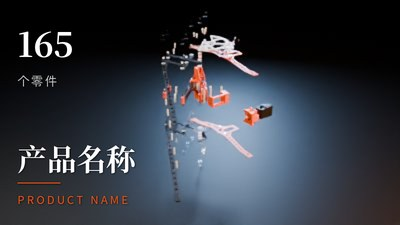
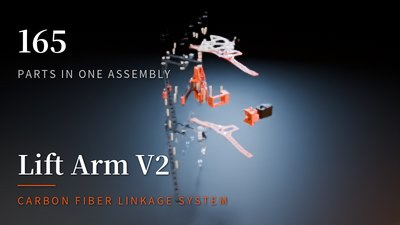
Sample text sets for the example arm, style thumbnails use them, cinema bars grow with text size
Claude-Session: https://claude.ai/code/session_011cTw5qFwCE4Zm3AgZV3jqh

diff --git a/stepreel/web/index.html b/stepreel/web/index.html
@@ -76,6 +76,10 @@ input[type=range]{width:100%;accent-color:var(--ink)}
 .choice .v{display:block;font-weight:600;font-size:14px}
 .choice .d{display:block;font-size:11.5px;color:var(--graphite);line-height:1.35}
 .choice .go{font-size:12px;color:var(--trace);padding-right:4px;white-space:nowrap}
+.samples{display:grid;grid-template-columns:84px 1fr;gap:10px;align-items:start;margin:0 0 6px}
+#tSamples{display:flex;flex-wrap:wrap;gap:6px}
+#tSamples button{border:1px solid var(--rule);background:#fff;border-radius:12px;padding:3px 10px;font-size:12.5px;cursor:pointer}
+#tSamples button:hover{border-color:var(--ink)}
 .sel{width:100%;border:1px solid var(--ink);border-radius:2px;background:#fff;padding:6px 8px;font-size:13px}
 .tprev{position:relative;margin:12px 0 8px;border:1px solid var(--ink);background:#14171d;aspect-ratio:16/9}
 .tprev img{display:block;width:100%;height:100%;object-fit:cover}
@@ -234,6 +238,7 @@ td.c{text-align:center;width:72px}
         <div class="seg" id="textOn" style="margin-bottom:10px"><button data-v="on" aria-pressed="true">加文字</button><button data-v="off" aria-pressed="false">不加文字</button></div>
         <p class="hint" id="textOffHint" hidden>视频里不会出现任何文字，适合自己在剪映、PR、达芬奇里加字幕。</p>
         <div id="textOpts">
+          <div class="samples"><span class="lab">示例文字 <i class="tip" tabindex="0" data-tip="点一下就把下面几格填好，方便先看效果，之后改成你自己的内容。">?</i></span><div id="tSamples"></div></div>
           <label class="field"><span>产品名（开场大标题）</span><input type="text" id="tName" placeholder="例：壁面起降臂 V2"></label>
           <label class="field"><span>副标题</span><input type="text" id="tSub" placeholder="例：WALL-MOUNTED LIFT ARM"></label>
           <div class="pair">
@@ -348,6 +353,11 @@ fetch("/api/library").then(r=>r.json()).then(lib=>{
     b.innerHTML = `<img alt="" loading="lazy" src="${p.thumb}" onerror="this.className='nothumb'"><b>${esc(p.name)}</b><small>${esc(p.desc)}</small>`;
     b.onclick = () => applyLook(p.id); box.append(b);
   });
+  lib.text_samples.forEach(sm=>{ const b=document.createElement("button"); b.textContent=sm.label;
+    b.title = [sm.name, sm.sub, sm.stat && (sm.stat+" "+sm.statcap), sm.end].filter(Boolean).join(" / ");
+    b.onclick = () => { $("#tName").value=sm.name; $("#tSub").value=sm.sub; $("#tStat").value=sm.stat;
+      $("#tStatCap").value=sm.statcap; $("#tEnd").value=sm.end; updateTextPreview(); };
+    $("#tSamples").append(b); });
   for(const [id, opts] of [["#tPos", lib.text_positions], ["#tAnim", lib.text_anims]])
     for(const [v,t] of Object.entries(opts)){ const o=document.createElement("option"); o.value=v; o.textContent=t; $(id).append(o); }
   renderChoices(); maybeStartTour(); updateTextPreview();

diff --git a/stepreel/overlay.py b/stepreel/overlay.py
@@ -125,6 +125,23 @@ TEXT_STYLES = {
         "cap": ("regular", 28, 0.24), "end": ("regular", 30, 0.28),
     },
 }
+# Ready-made copy for the example lift arm. Facts only (part count, gear ratio, materials), no invented specs.
+TEXT_SAMPLES = {
+    "launch_cn": {"label": "中文发布", "name": "壁面起降臂 V2", "sub": "碳纤维连杆 · 一级齿轮减速",
+                  "stat": "165", "statcap": "个零件", "end": "SolidWorks 建模 · 代码渲染"},
+    "launch_en": {"label": "English", "name": "Lift Arm V2", "sub": "Carbon Fiber Linkage System",
+                  "stat": "165", "statcap": "Parts in one assembly", "end": "Designed in SolidWorks"},
+    "spec_cn": {"label": "参数介绍", "name": "一级减速机械臂", "sub": "总线舵机驱动 · 自润滑轴套",
+                "stat": "12:72", "statcap": "齿轮减速比", "end": "38 种零件 · 3D 打印 + 碳纤维"},
+    "spec_en": {"label": "Specs", "name": "ARM-02", "sub": "Gear-reduced lift mechanism",
+                "stat": "1:6", "statcap": "Reduction ratio", "end": "Carbon fiber · Nylon · Steel"},
+    "minimal": {"label": "极简", "name": "起降臂", "sub": "LIFT ARM",
+                "stat": "", "statcap": "", "end": "2026"},
+    "teaser": {"label": "预告片", "name": "Coming Soon", "sub": "A new way to lift",
+               "stat": "", "statcap": "", "end": "Stay tuned"},
+}
+STYLE_SAMPLE = {"classic": "launch_cn", "minimal": "minimal", "impact": "spec_cn",
+                "tech": "spec_en", "editorial": "launch_en", "cinema": "teaser"}
 TEXT_POSITIONS = {"auto": "跟随样式", "bottom-left": "左下", "bottom": "底部居中", "center": "正中", "top-left": "左上"}
 TEXT_ANIMS = {"auto": "跟随样式", "fade": "淡入", "rise": "上滑", "type": "打字机", "expand": "展开"}
 TEXT_COLORS = {"auto": "自动", "white": "白色", "black": "黑色", "accent": "主色"}
@@ -218,7 +235,8 @@ def letterbox_height(text_cfg, H, t):
     st = TEXT_STYLES.get((text_cfg or {}).get("style", "classic"), {})
     if not (text_cfg or {}).get("enabled", True) or not st.get("letterbox"):
         return 0
-    return int(H * st["letterbox"] * _ease(t / 0.8))
+    frac = st["letterbox"] * max(1.0, float((text_cfg or {}).get("size", 1.0) or 1.0))
+    return int(H * frac * _ease(t / 0.8))
 
 
 def draw_titles(img, t, titles, style, font_cfg=None, accent=None, text_cfg=None):
@@ -291,7 +309,7 @@ def draw_titles(img, t, titles, style, font_cfg=None, accent=None, text_cfg=None
         widths = [ln.width() for _, ln in rows]
         maxw = max(widths)
         if ts.get("in_bars") and bars and pos != "center":
-            full = int(H * ts["letterbox"])
+            full = int(H * ts["letterbox"] * max(1.0, mult))
             y = (full - total) // 2 if pos.startswith("top") else H - full + (full - total) // 2
         elif pos.startswith("top"):
             y = top_m

diff --git a/tools/make_thumbs.py b/tools/make_thumbs.py
@@ -111,13 +111,15 @@ if "preset" in kinds:
             print("preset", name, flush=True)
 
 if "text" in kinds:
-    from stepreel.overlay import TEXT_STYLES, draw_titles
-    sample = [{"text": "产品名称", "style": "title", "start": 0, "end": 99},
-              {"text": "PRODUCT NAME", "style": "subtitle", "start": 0, "end": 99},
-              {"text": "165", "style": "stat", "caption": "个零件", "start": 0, "end": 99}]
+    from stepreel.overlay import STYLE_SAMPLE, TEXT_SAMPLES, TEXT_STYLES, draw_titles
     bg = Image.open(os.path.join(out, "scene-dark-studio.jpg")).convert("RGB").resize((800, 450))
     for name in TEXT_STYLES:
         if want(name):
-            im = draw_titles(bg, 5.0, sample, "dark-studio", None, "#F25213", {"style": name, "size": 1.7})
+            smp = TEXT_SAMPLES[STYLE_SAMPLE[name]]
+            sample = [{"text": smp["name"], "style": "title", "start": 0, "end": 99},
+                      {"text": smp["sub"], "style": "subtitle", "start": 0, "end": 99}]
+            if smp["stat"]:
+                sample.append({"text": smp["stat"], "style": "stat", "caption": smp["statcap"], "start": 0, "end": 99})
+            im = draw_titles(bg, 5.0, sample, "dark-studio", None, "#F25213", {"style": name, "size": 1.5})
             im.resize((400, 225), Image.LANCZOS).save(os.path.join(out, f"text-{name}.jpg"), quality=88)
             print("text", name, flush=True)

diff --git a/stepreel/ui.py b/stepreel/ui.py
@@ -66,6 +66,7 @@ def library():
             "mode": [{"id": k, "name": v[0], "desc": v[1]} for k, v in C.EXPLODE_INFO.items()],
             "text": [{"id": k, "name": v["name"], "desc": v["desc"], "thumb": f"/thumbs/text-{k}.jpg"}
                      for k, v in O.TEXT_STYLES.items()],
+            "text_samples": [{"id": k, **v} for k, v in O.TEXT_SAMPLES.items()],
             "text_positions": O.TEXT_POSITIONS, "text_anims": O.TEXT_ANIMS, "text_backdrops": O.TEXT_BACKDROPS}
 
 
